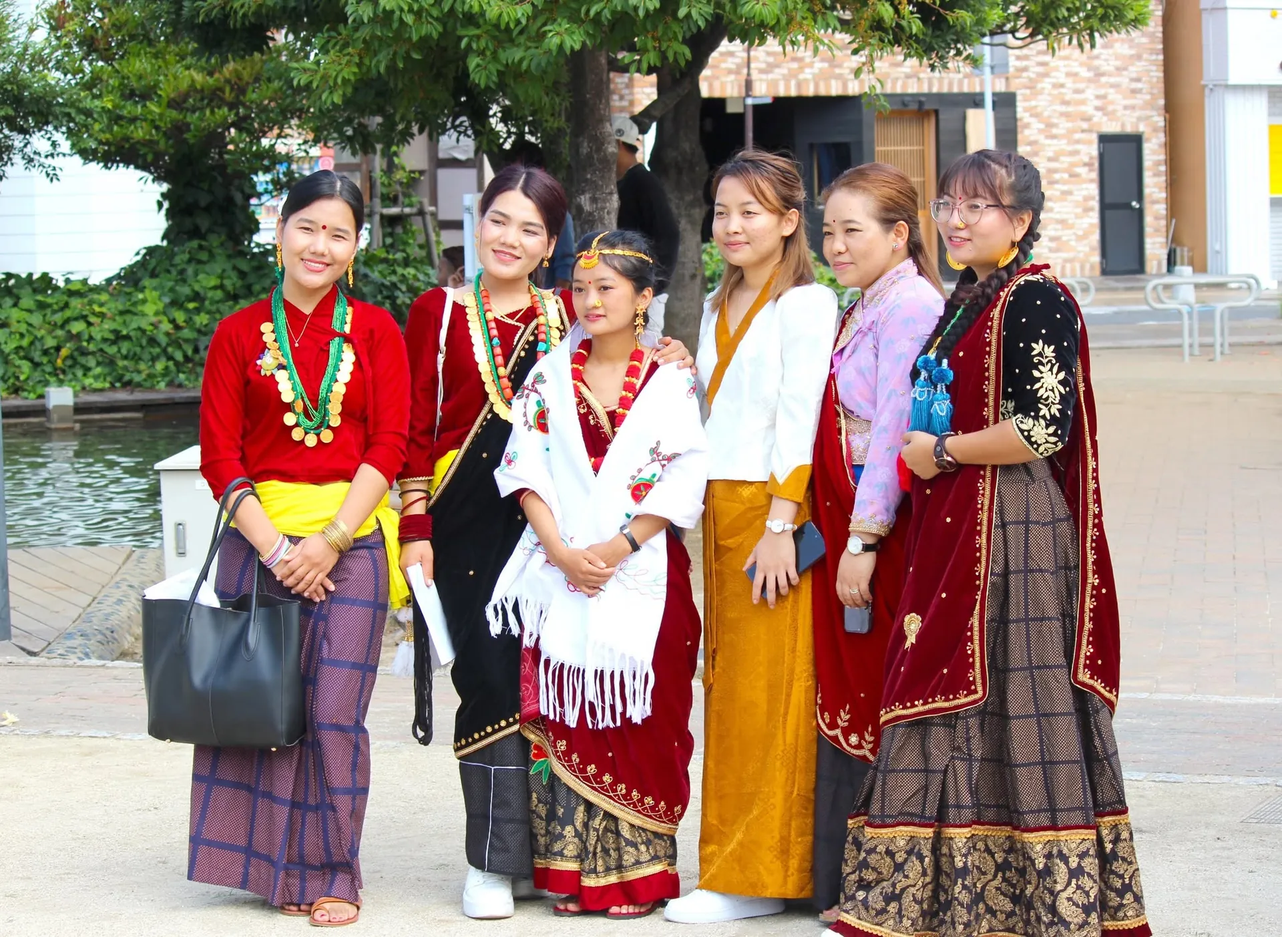
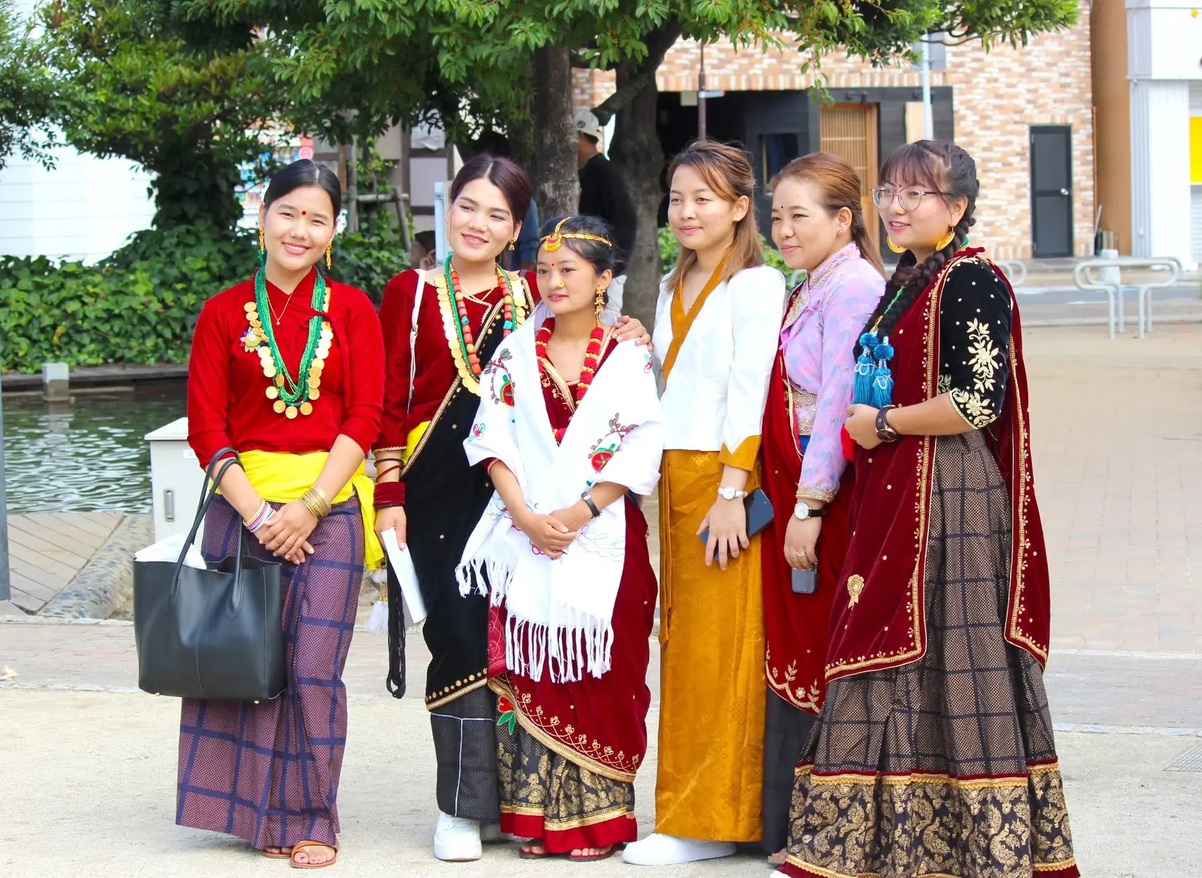
Move the hero copy to the top, and the veil with it — four photographs now work
THE HEADLINE WAS SITTING IN THE MIDDLE OF THE PHOTOGRAPH, which caused both of
the complaints at once: you could not see the picture, and only one picture in
the whole gallery could ever be used.

The veil was a halo centred at 48% 39%, so the brightest part of it landed
exactly on the most interesting part of every photograph — the people — at 0.78
alpha. And the headline landed on their faces. One photograph survived that
test, because one has a quiet ceiling above its group.

The copy is now a compact block at the top and the veil is a top band that
fades out by about 62%. Below that there is no veil at all, which is where the
people are in every one of these pictures. The copy block also gives back the
space it was taking: display type 4.1rem -> 3.45rem, and the three stacked
margins 1.5/1.5/2.25rem -> 0.9/0.9/1.4rem.

CONTRAST IMPROVED RATHER THAN DEGRADED, which is the opposite of what moving
type onto a busier part of a photograph usually does — because the copy moved
INTO the strong part of the veil rather than out of it. Title band, measured on
the rendered page against rgb(27,23,20):

                        before            after
    mean               12.15:1          14.74:1
    worst pixel         3.63:1           9.39:1
    below 3.0:1          0.00%            0.00%
    below 4.5:1          0.36%            0.00%

AND IT UNLOCKED THE GALLERY. Every candidate was re-measured on the page:

                     before      after
[…]

diff --git a/web-app/lib/covers.ts b/web-app/lib/covers.ts
@@ -53,44 +53,58 @@
  * aspect 1.66 against a desktop hero box of about 1.63 — so almost nothing is
  * cropped a second time by object-fit. It also came out 90KB lighter.
  *
- * A HERO PHOTOGRAPH HAS TO CARRY THE HEADLINE, which rules most photographs
- * out. Every published gallery photograph was measured by covering it into a
- * 1440x880 box and sampling the band the title occupies, against the
- * rgb(27,23,20) it is drawn in, BEFORE the page's own scrim:
+ * THE LAYOUT CHANGE IS WHAT MADE THIS LIST POSSIBLE. The hero copy used to sit
+ * in the MIDDLE of the photograph under a halo centred at 48% 39%, so the
+ * brightest part of the veil landed on the most interesting part of every
+ * picture — the people — and the headline landed on their faces. Exactly one
+ * photograph in the whole gallery survived that, because exactly one has a
+ * quiet ceiling above its group.
  *
- *     the room (chosen)        7.04:1      festival banner       4.96:1
- *     Fukuoka arch             6.45:1      Lakhe dancer          3.23:1
- *     family portrait          6.32:1      football team         2.95:1
- *     traditional dress        5.26:1      park bench            5.32:1
+ * The copy is now a compact block at the top with the veil moved up to meet it.
+ * Measured on the rendered page, title band against rgb(27,23,20):
  *
- * Rejected, and why, so the list is not re-litigated:
- *   football team      2.95 raw. Dusk sky and dark concrete exactly where the
- *                      title goes. No scrim rescues a 2.95.
- *   Lakhe dancer       3.23 raw, and a single masked figure is a portrait
- *                      rather than a picture of a community.
- *   Fukuoka arch       Reads well, but "Nepal Festival Fukuoka2025" is printed
- *                      across the arch at exactly the height of the headline.
- *                      Two sets of display type fighting.
- *   festival banner    Same fault: the banner's own title sits under ours.
- *   family portrait    A child's ceremony. Private in a way a front page is not.
- *   classroom          Scores best of all (14.65) and shows a whiteboard and
- *                      the backs of heads. Legible is not the only test.
+ *                        BEFORE (centred copy)      AFTER (copy at the top)
+ *                        mean     below 3.0:1       mean    worst   below 3.0:1
+ *     the room          12.15:1      0.00%         14.74:1  9.39:1     0.00%
+ *     traditional dress 11.06:1      0.00%         14.16:1  9.58:1     0.00%
+ *     family               —           —           14.59:1  9.24:1     0.00%
+ *     football team      2.95:1    (rejected)       13.50:1  9.68:1     0.00%
+ *     Lakhe dancer       3.23:1    (rejected)       13.61:1  9.12:1     0.00%
+ *
+ * The football team went from unusable to one of the best. Contrast stopped
+ * being the filter; what is left is composition, which is a judgement:
+ *
+ * THE RULE THAT DECIDES IT IS NOW ONE SENTENCE: the headline must not cross a
+ * face. It is the same rule PersonCard already follows for member portraits,
+ * and with contrast no longer the constraint it is the only one left. Checked
+ * by rendering each candidate as slide one and looking:
+ *
+ *   the room           faces sit below the copy block           keep
+ *   best.webp          no faces in it at all                    keep
+ *   traditional dress  the line passes over hair andthe background above
+ *                      the faces, which stay readable           keep
+ *   football team      the copy lands on the stadium roof       keep
+ *   family             "Bridging Nepali Hearts" covers the
+ *                      boy's face completely                    out
+ *   Lakhe dancer       the copy lands squarely on the mask,
+ *                      which is the entire subject              out
+ *   Fukuoka arch       "Nepal Festival Fukuoka2025" is printed across the arch
+ *                      at exactly the height of our headline — two sets of
+ *                      display type fighting — and it says Fukuoka on the front
+ *                      page of an Oita community.
+ *   festival banner    The same fault: the banner's own title under ours.
+ *   classroom          Scores best of all nine and shows a whiteboard and the
+ *                      backs of heads. Legible is not the only test.
  *   park bench         1079x1080 is the largest copy that exists, so a retina
- *                      hero enlarges it; the group also fills the frame top to
- *                      bottom, leaving no band for the title at any
- *                      object-position. It is still in the gallery, at a size
- *                      it has the pixels for.
+ *                      hero enlarges it and the faces go soft.
  *
- * MEASURED ON THE RENDERED PAGE, with the scrim, which is the number that
- * counts. A single worst pixel is a poor statistic — one dark hair fails it —
- * so what matters is how much of the band falls below the floor:
- *
- *                        title mean   below 3.0:1   below 4.5:1
- *     the room            12.15:1        0.00%         0.36%
- *     traditional dress   11.06:1        0.00%         1.79%
- *
- * The floor is 3.0 for display type. Neither has a single percent of the band
- * under it. Measure the same way before adding a fourth.
+ * community-oita.webp IS CROPPED and it is the only one that is. Its gallery
+ * original is 2048x1536 of which the top third is ceiling, ducting and a
+ * spotlight; it is cut to 1920x1157, which lands at aspect 1.66 against a
+ * desktop hero box of about 1.63, so object-fit crops almost nothing a second
+ * time. The others are left whole because cropping them to the hero's shape
+ * lifts the faces INTO the headline band, which is the trade this file keeps
+ * having to make.
  *
  * WHAT IS STILL LEFT OUT:
  *   oita_city.png       Carries a DREAMSTIME WATERMARK across the middle. It is
@@ -104,6 +118,7 @@ export const HERO_PHOTOS = [
   '/images/community-oita.webp',
   '/images/best.webp',
   '/images/community-dress.webp',
+  '/images/community-football.webp',
 ]
 
 /* What a coverless event borrows.

diff --git a/web-app/app/theme.css b/web-app/app/theme.css
@@ -42,22 +42,32 @@
      missed the text completely (it landed on empty sky) while paling the far
      peaks — which is why the left side read as "white blur". An edgeless halo
      under the headline seats the type on the photograph without a visible box. */
+  /* A TOP BAND, NOT A CENTRED HALO — and that is a layout decision, not a
+     colour one.
+     
+     The halo was centred at 48% 39% because the hero copy used to sit in the
+     middle of the photograph. It meant the brightest part of the veil landed
+     exactly on the most interesting part of every picture: the people. A
+     visitor could not see the photograph, and only one photograph in the whole
+     gallery could be used, because any other put faces where the headline goes.
+     
+     The copy is now a compact block at the top, so the veil is too. The
+     photograph's upper band is sky, or a ceiling, or a wall — the part nobody
+     needs to see — and that is what gets covered. Everything from about 58%
+     down is untouched, which is where the people are in every one of these
+     pictures. */
   --hero-scrim:
-    radial-gradient(52% 40% at 48% 39%,
-      rgba(255, 251, 245, 0.78) 0%,
-      rgba(255, 251, 245, 0.64) 40%,
-      rgba(255, 251, 245, 0.32) 66%,
-      rgba(255, 251, 245, 0.09) 85%,
-      rgba(255, 251, 245, 0) 100%),
-    /* top veil, so the navbar stays legible against bright sky */
     linear-gradient(to bottom,
-      rgba(255, 252, 247, 0.34) 0%,
-      rgba(255, 252, 247, 0.10) 15%,
-      transparent 28%),
-    /* a little warmth low down, tying the two photographs together */
-    radial-gradient(130% 42% at 50% 102%,
-      rgba(255, 234, 202, 0.26) 0%,
-      rgba(255, 234, 202, 0) 72%);
+      rgba(255, 252, 247, 0.88) 0%,
+      rgba(255, 252, 247, 0.82) 24%,
+      rgba(255, 252, 247, 0.58) 40%,
+      rgba(255, 252, 247, 0.22) 52%,
+      rgba(255, 252, 247, 0.04) 62%,
+      rgba(255, 252, 247, 0) 70%),
+    /* a little warmth low down, tying the slides together */
+    radial-gradient(130% 40% at 50% 102%,
+      rgba(255, 234, 202, 0.22) 0%,
+      rgba(255, 234, 202, 0) 74%);
   --hero-shadow: 0 1px 12px rgba(252, 248, 242, 0.65);
   --hero-accent: #8E1B27;   /* deeper than brand crimson: it sits on imagery */
 
@@ -962,18 +972,22 @@ section[id], main[id] {
      off-centre. The copy itself has to be centred too. */
   text-align: center;
 }
-.hero__eyebrow { margin-bottom: 1.5rem; }
+.hero__eyebrow { margin-bottom: 0.9rem; }
 /* Sized to its column, not to the page. The shared display-1 scale runs to
    5.25rem, at which "Bridging Nepali Hearts" cannot fit one line inside a centred
    48rem column and the headline breaks to three. Capped so it holds two. */
-.hero .display-1 { font-size: clamp(2.4rem, 5.4vw, 4.1rem); }
-.hero__title { margin-bottom: 1.5rem; }
+/* Smaller than it was (was 2.4-4.1rem). Every rem here is a rem of photograph
+   the visitor does not get to see, and at 4.1rem the copy block ran to within a
+   whisker of the event ribbon — the clear band between them measured 60px out
+   of 880. It still holds two lines. */
+.hero .display-1 { font-size: clamp(2.15rem, 4.5vw, 3.45rem); }
+.hero__title { margin-bottom: 0.9rem; }
 .hero__title em {
   font-style: italic;
   font-variation-settings: "SOFT" 30, "WONK" 1;
   color: var(--hero-accent);
 }
-.hero__lede { max-width: 34rem; margin-inline: auto; margin-bottom: 2.25rem; }
+.hero__lede { max-width: 34rem; margin-inline: auto; margin-bottom: 1.4rem; }
 .hero__actions {
   display: flex;
   flex-wrap: wrap;
